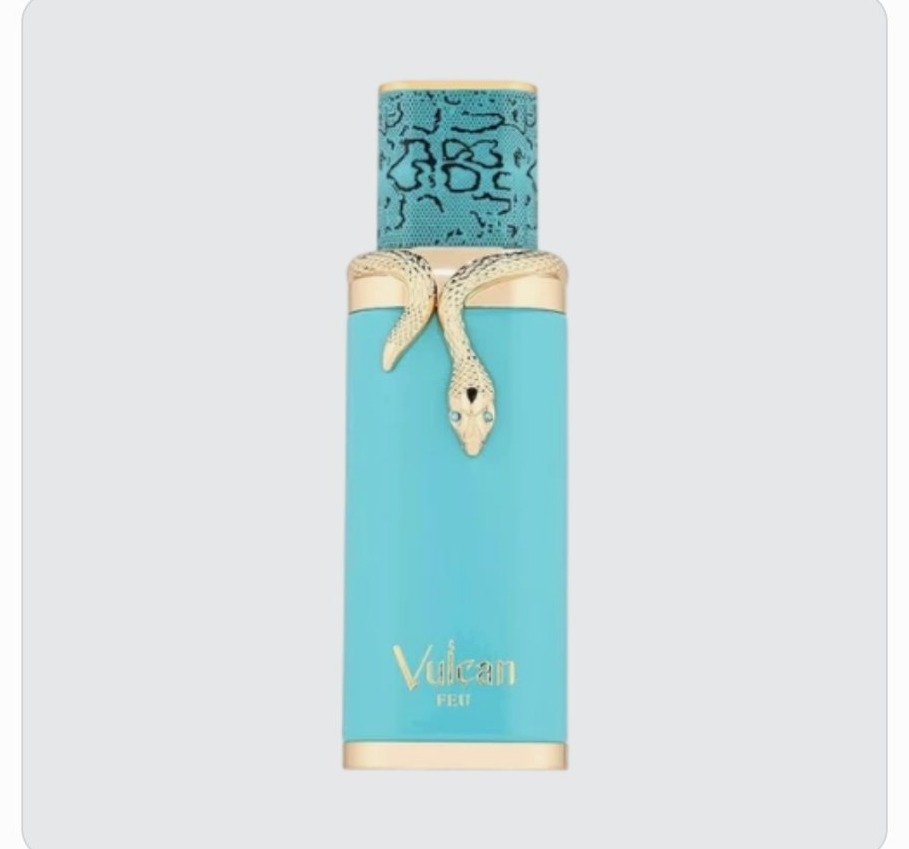
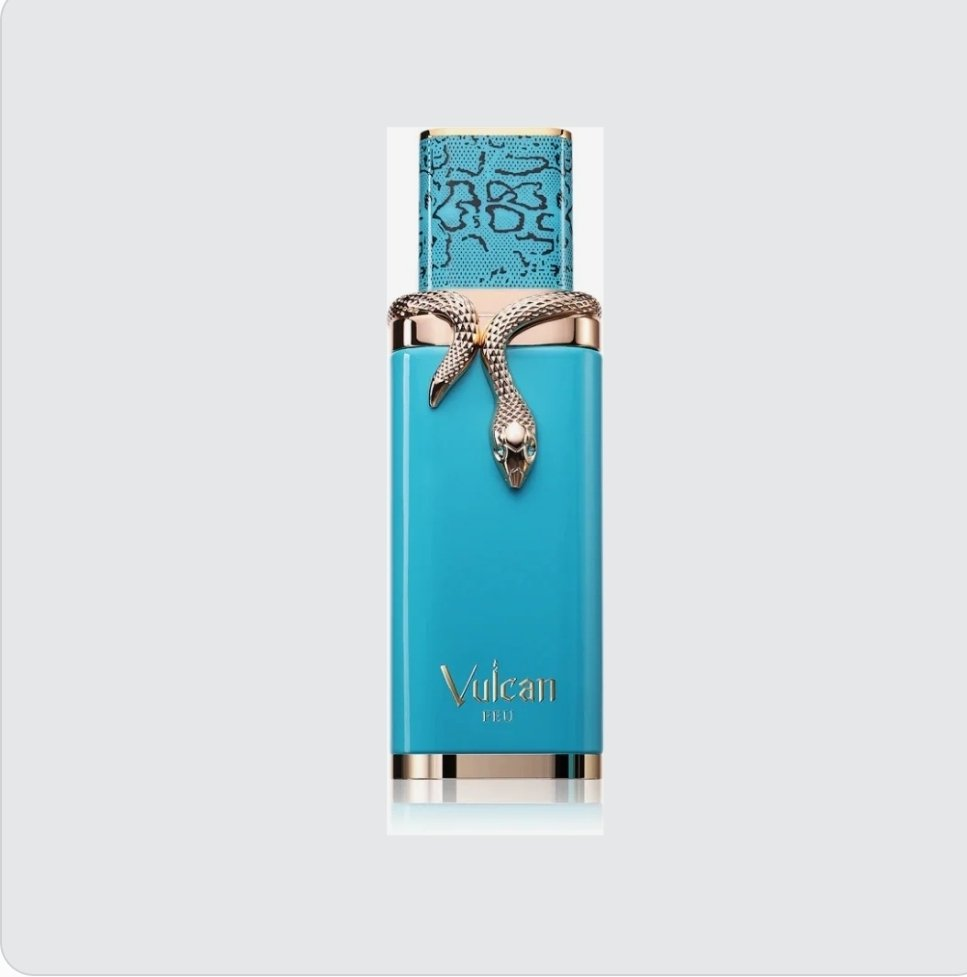
Replace French Avenue Vulcan Feu photos with Boss's new shots

Changed region(s): [[0.3696, 0.0919, 0.6469, 0.9187], [0.9857, 0.98, 1.0, 1.0], [0.0, 0.98, 0.0308, 1.0]]

diff --git a/index.html b/index.html
@@ -723,7 +723,7 @@
         { name:'Ariana Grande Cloud Perfume for Women (Tester)', niche:'Ariana Grande · Women · 3.4 oz EDP · Tester', direction:'Lavender, coconut cream and soft musk', description:'Tester version: the authentic 3.4 oz fragrance supplied in tester packaging rather than standard retail presentation. Airy lavender and fruit float over coconut cream, vanilla and soft musk.', category:'sweet', images:[{src:'assets/product-ariana-grande-cloud-tester.jpg', alt:'Ariana Grande Cloud tester bottle and tester box — clean packshot'},{src:'assets/gallery-ariana-grande-cloud-1.jpg', alt:'Ariana Grande Cloud Perfume for Women (Tester) — customer photo 1'}], price:45, decantPrice:11, originalPrice:56, featured:32 , paymentLink:'https://buy.stripe.com/fZu4gB1Mt6jWe4q6Gvf7i0I'},
         { name:'Dior Sauvage Parfum Cologne for Men', niche:'Dior · Men · 3.4 oz Parfum', direction:'Citrus, spice and sandalwood', description:'A fresh citrus opening gains depth from smooth spice, resinous warmth and sandalwood. Refined and full-bodied, with a polished lasting trail.', category:'woody', images:[{src:'assets/product-dior-sauvage-parfum.jpg', alt:'Dior Sauvage Eau de Parfum bottle and box on a clean white background'},{src:'assets/product-dior-sauvage-parfum-2.jpg', alt:'Dior Sauvage Eau de Parfum bottle on a clean white background'},{src:'assets/product-dior-sauvage-parfum-3.jpg', alt:'Dior Sauvage Eau de Parfum bottle on a blue Dior graphic'}], price:165, decantPrice:41, originalPrice:180, featured:33 , paymentLink:'https://buy.stripe.com/7sY7sNaiZ8s41hE9SHf7i0J'},
         { name:'Jimmy Choo Perfume for Women', niche:'Jimmy Choo · Women · 3.3 oz EDP', direction:'Pear, orchid and sweet patchouli', description:'Juicy pear and a luminous floral heart settle into warm toffee-toned sweetness and patchouli. Glamorous and inviting without losing its elegance.', category:'sweet', images:[{src:'assets/product-jimmy-choo.jpg', alt:'Jimmy Choo perfume bottle on a clean white background'},{src:'assets/product-jimmy-choo-2.jpg', alt:'Jimmy Choo perfume bottle held in a campaign-style shot'}], price:62, decantPrice:16, originalPrice:75, featured:34 , paymentLink:'https://buy.stripe.com/14AbJ3cr75fSgcy8ODf7i0H'},
-        { name:'French Avenue Vulcan Feu Perfume for Unisex', niche:'French Avenue · Unisex · 3.4 oz EDP', direction:'Tropical fruit, ginger and warm woods', description:'A vivid tropical-fruit opening meets bright ginger before settling into warm, smooth woods. Colorful and energetic with an easy unisex character.', category:'fresh', images:[{src:'assets/product-french-avenue-vulcan-feu.jpg', alt:'French Avenue Vulcan Feu turquoise bottle and box — clean packshot'},{src:'assets/gallery-french-avenue-vulcan-feu-1.jpg', alt:'French Avenue Vulcan Feu Perfume for Unisex — customer photo 1'},{src:'assets/gallery-french-avenue-vulcan-feu-3.jpg', alt:'French Avenue Vulcan Feu Perfume for Unisex — customer photo 2'}], price:39, decantPrice:10, originalPrice:50, featured:35 , paymentLink:'https://buy.stripe.com/aFa3cx9eVaAc7G23ujf7i0X'},
+        { name:'French Avenue Vulcan Feu Perfume for Unisex', niche:'French Avenue · Unisex · 3.4 oz EDP', direction:'Tropical fruit, ginger and warm woods', description:'A vivid tropical-fruit opening meets bright ginger before settling into warm, smooth woods. Colorful and energetic with an easy unisex character.', category:'fresh', images:[{src:'assets/product-french-avenue-vulcan-feu.jpg', alt:'French Avenue Vulcan Feu turquoise snake bottle and box on a clean white background'},{src:'assets/gallery-french-avenue-vulcan-feu-1.jpg', alt:'French Avenue Vulcan Feu turquoise snake bottle on a clean white background'}], price:39, decantPrice:10, originalPrice:50, featured:35 , paymentLink:'https://buy.stripe.com/aFa3cx9eVaAc7G23ujf7i0X'},
         { name:'Emporio Armani Stronger With You Intensely Cologne for Men', niche:'Emporio Armani · Men · 3.3 oz EDP', direction:'Pink pepper, toffee and vanilla amber', description:'A spicy opening melts into sweet toffee, vanilla and warm amber woods. Dense, comforting and especially suited to cool-weather evenings.', category:'sweet', images:[{src:'assets/product-armani-stronger-with-you-intensely.jpg', alt:'Emporio Armani Stronger With You Intensely bottle and box on a clean white background'},{src:'assets/gallery-armani-stronger-with-you-intensely-1.jpg', alt:'Emporio Armani Stronger With You Intensely bottle close-up'},{src:'assets/gallery-armani-stronger-with-you-intensely-2.jpg', alt:'Emporio Armani Stronger With You Intensely bottle on a clean white background'}], price:99, decantPrice:25, originalPrice:120, featured:36 , paymentLink:'https://buy.stripe.com/5kQ6oJ3UBgYA0dAc0Pf7i0W'},
         { name:'Versace Eros Cologne for Men (Tester)', niche:'Versace · Men · 3.4 oz EDT · Tester', direction:'Mint, green apple and vanilla woods', description:'Tester version: the authentic 3.4 oz fragrance supplied in tester packaging rather than standard retail presentation. Bright mint and apple lead into aromatic warmth, vanilla and smooth woods.', category:'fresh', images:[{src:'assets/product-versace-eros-tester.jpg', alt:'Versace Eros tester bottle and box on a clean white background'},{src:'assets/gallery-versace-eros-1.jpg', alt:'Versace Eros bottle in a styled apple and vanilla flat-lay'},{src:'assets/gallery-versace-eros-2.jpg', alt:'Versace Eros bottle in a styled floral composition'},{src:'assets/gallery-versace-eros-3.jpg', alt:'Versace Eros bottle on a clean white background'}], price:55, decantPrice:14, originalPrice:68, featured:37 , paymentLink:'https://buy.stripe.com/cNi00laiZaAc6BY7Kzf7i0K'},
         { name:'Afnan Supremacy Collector\'s Edition Perfume for Unisex', niche:'Afnan · Unisex · 3.4 oz EDP', direction:'Bright fruit, saffron and smoky woods', description:'Vibrant fruit and saffron open with clarity before smoky woods and amber bring depth. Polished and assertive with a versatile unisex profile.', category:'woody', images:[{src:'assets/product-afnan-supremacy-collectors.jpg', alt:'Afnan Supremacy Collector’s Edition speckled bottle in a styled dark composition'},{src:'assets/gallery-afnan-supremacy-collectors-edition-1.jpg', alt:'Afnan Supremacy Collector’s Edition bottle and box with notes breakdown ad'},{src:'assets/gallery-afnan-supremacy-collectors-edition-2.jpg', alt:'Afnan Supremacy Collector’s Edition rating and fragrance profile graphic'}], price:59, decantPrice:15, originalPrice:72, featured:38 , paymentLink:'https://buy.stripe.com/5kQfZj1Mt5fS5xUaWLf7i0T'},
